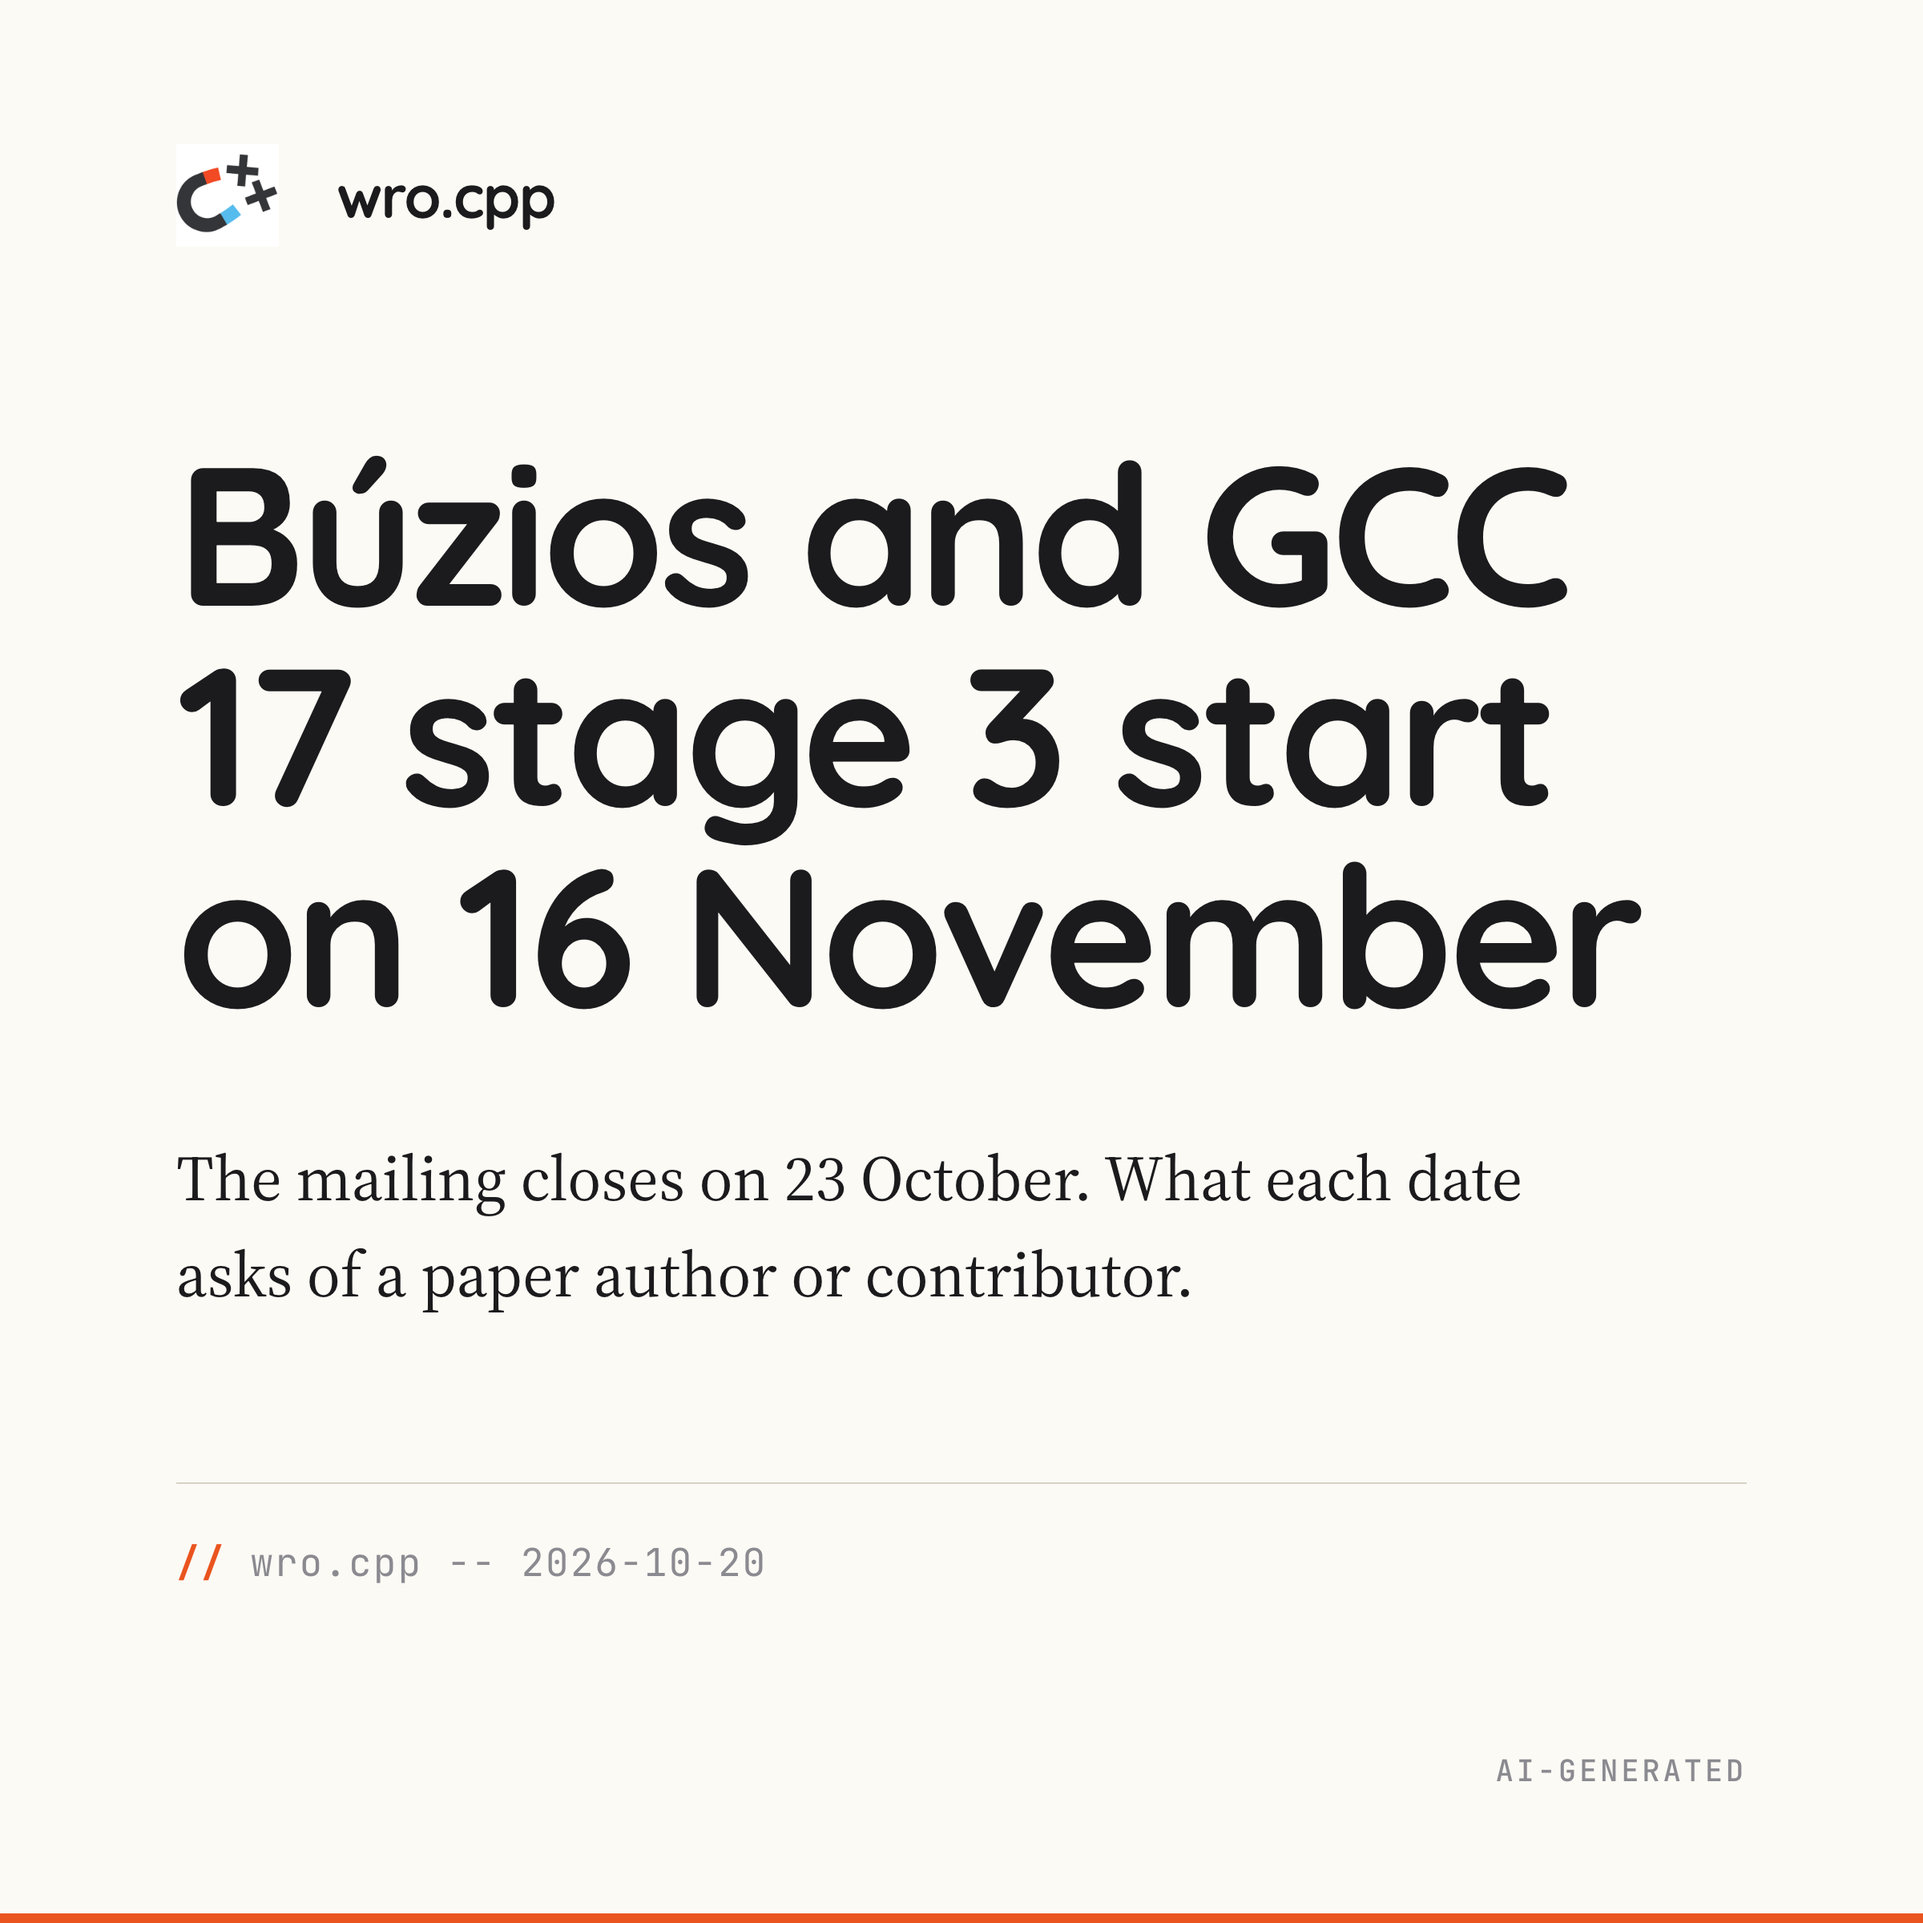
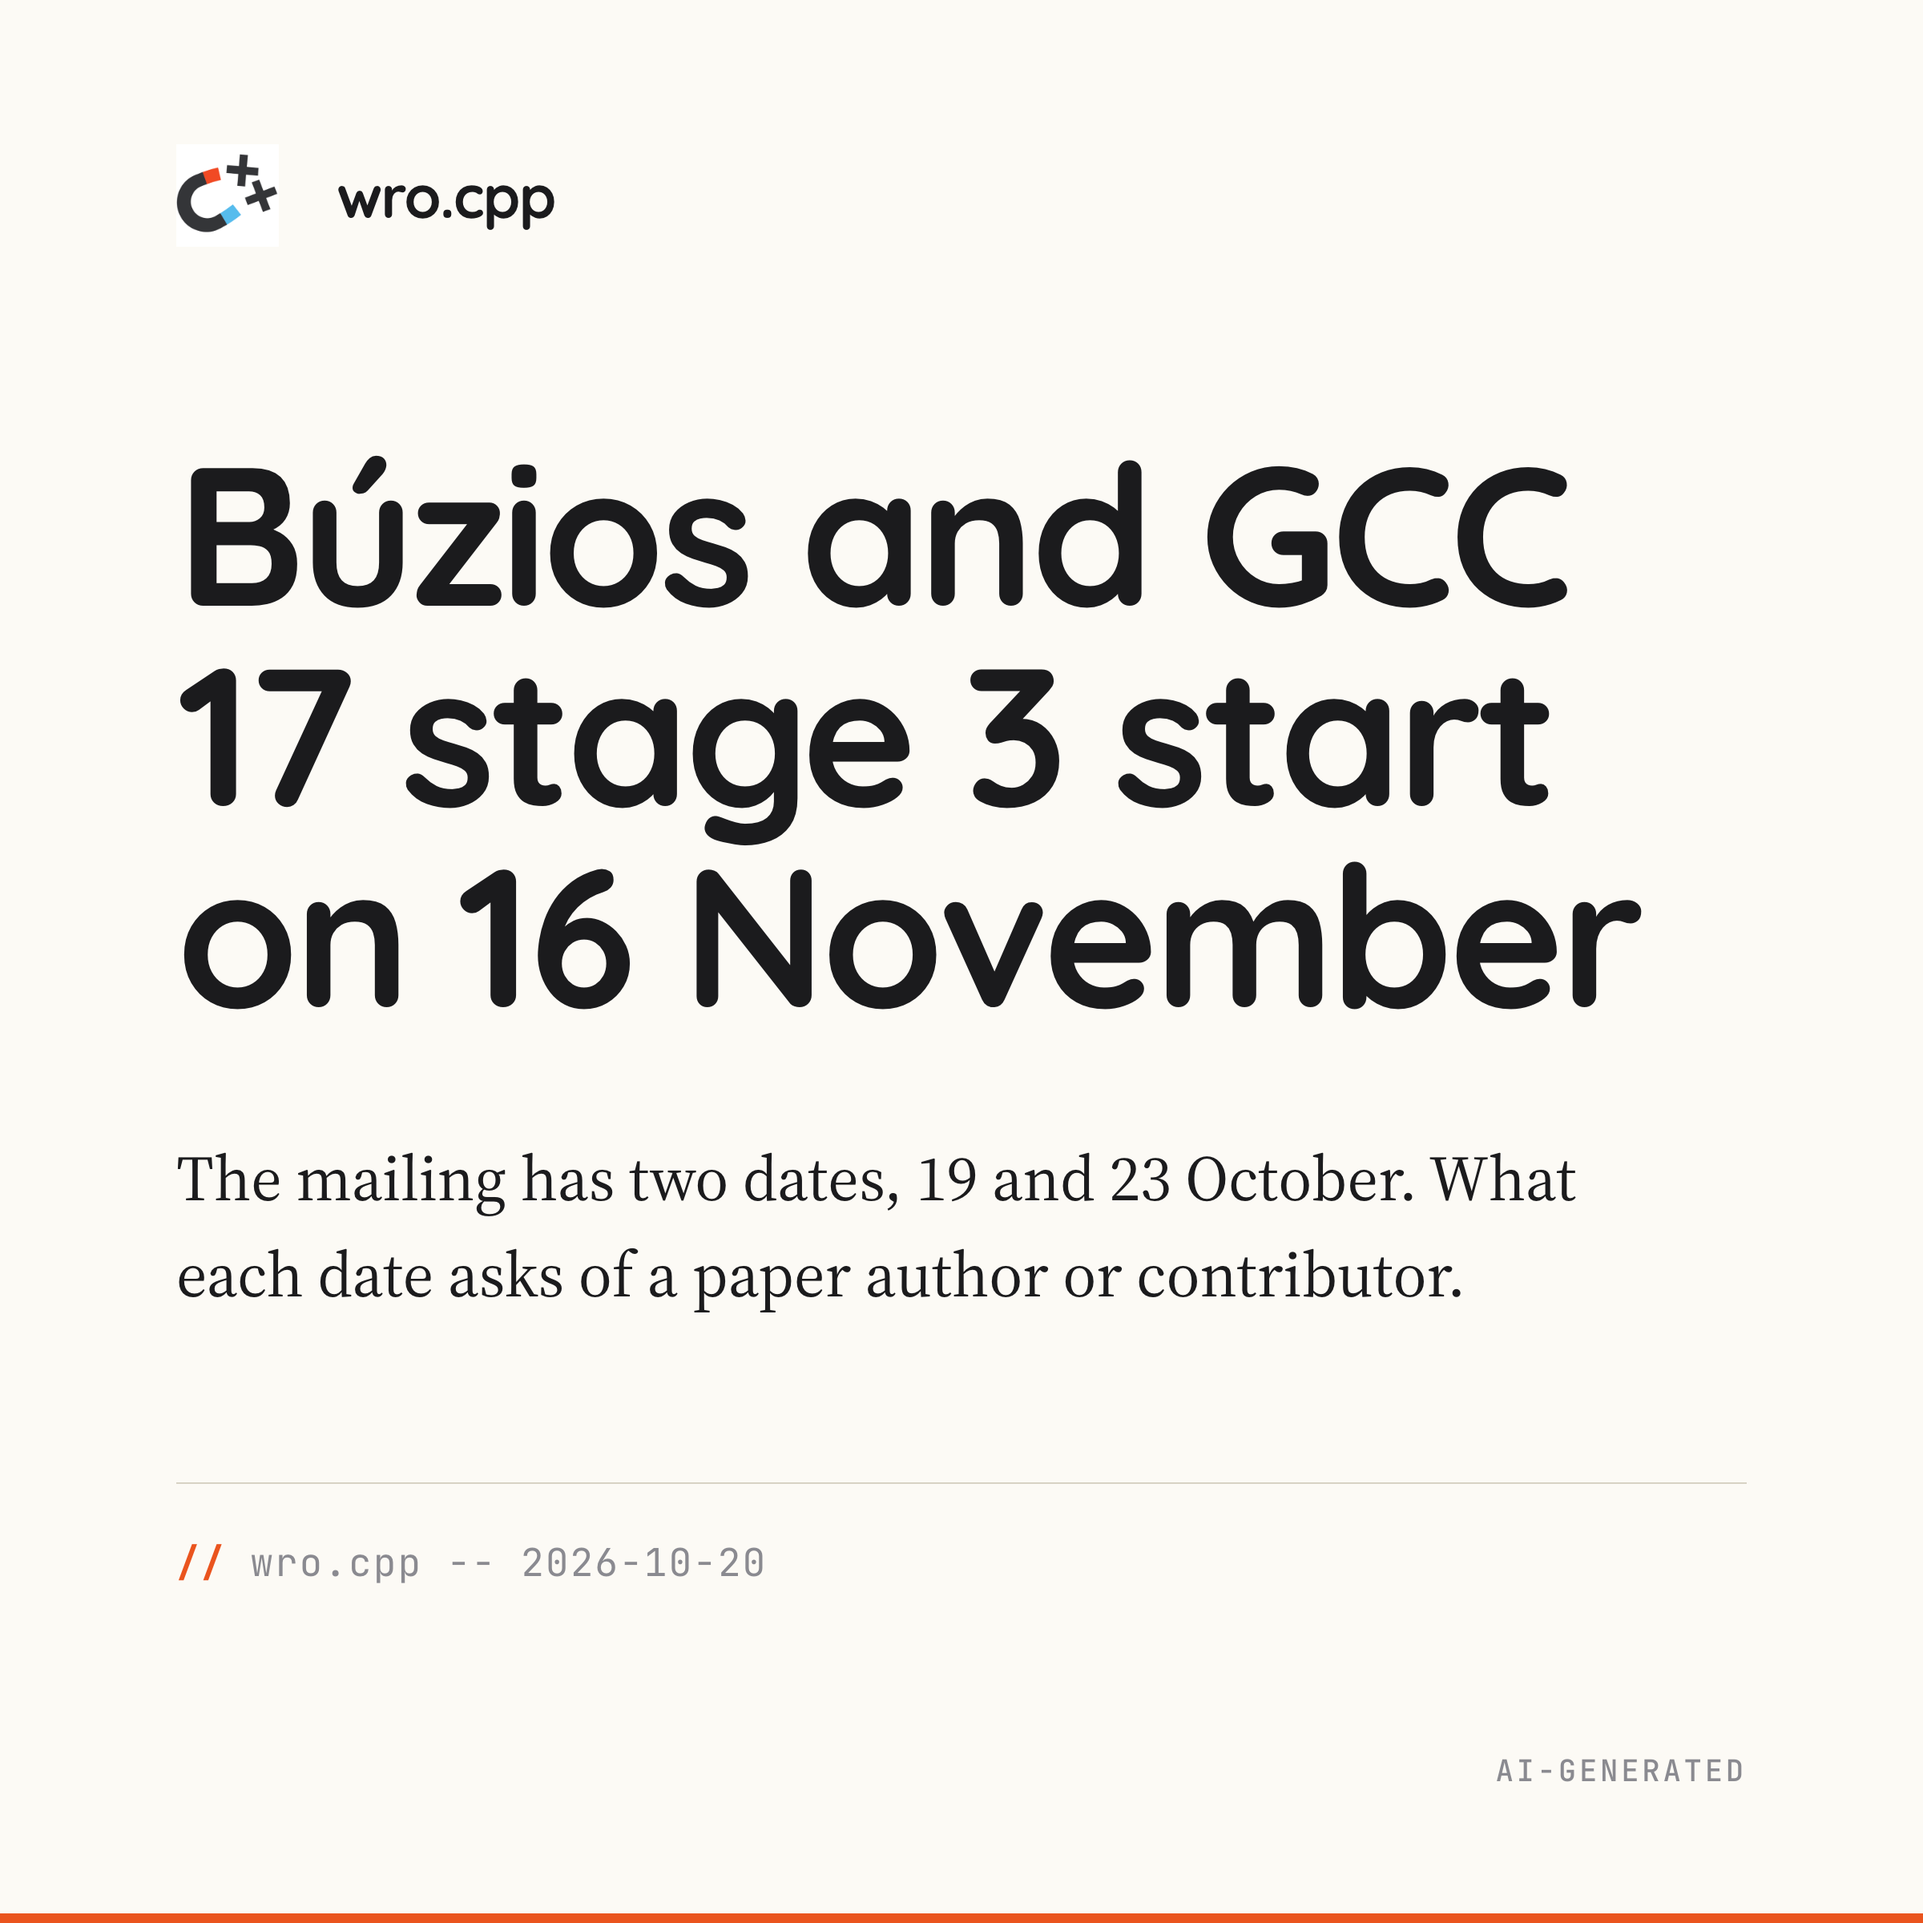
fix(social): update the Buzios captions for the two mailing dates
The corrected post gives two pre-Buzios mailing dates (agenda N5058:
Monday 19 October; WG21 news item: Friday 23 October 15:00 UTC) and
says the agenda exists. The LinkedIn and Facebook captions, the card
subtitle and the og image still said the mailing closes on 23 October
and that the agenda was not published. Only those claims changed.

Claude-Session: https://claude.ai/code/session_01BTCmkp4nQKAhWT8TGXF9KX

Changed region(s): [[0.0938, 0.6562, 0.75, 0.6875], [0.25, 0.5938, 0.8125, 0.625]]

diff --git a/social/facebook/dates-to-watch-buzios-gcc17/index.html b/social/facebook/dates-to-watch-buzios-gcc17/index.html
@@ -23,6 +23,6 @@
   </defs>
 </svg>
 
-<section class="card card-insight dark"><div class="grid-bg"></div><div class="glow"></div><div class="insight-content"><h1>Búzios and GCC 17 stage 3 start on 16 November</h1><p>The mailing closes on 23 October. What each date asks of a paper author or contributor.</p><div class="insight-citation">wro.cpp -- 2026-10-20</div></div><div class="logo-watermark top-left"><svg viewBox="0 0 512 512" aria-hidden="true"><use href="#scudo-logo"/></svg><span class="logo-wordmark">ScudoAI</span></div><div class="ai-badge">AI-generated</div></section>
+<section class="card card-insight dark"><div class="grid-bg"></div><div class="glow"></div><div class="insight-content"><h1>Búzios and GCC 17 stage 3 start on 16 November</h1><p>The mailing has two dates, 19 and 23 October. What each date asks of a paper author or contributor.</p><div class="insight-citation">wro.cpp -- 2026-10-20</div></div><div class="logo-watermark top-left"><svg viewBox="0 0 512 512" aria-hidden="true"><use href="#scudo-logo"/></svg><span class="logo-wordmark">ScudoAI</span></div><div class="ai-badge">AI-generated</div></section>
 </body>
 </html>

diff --git a/social/linkedin/dates-to-watch-buzios-gcc17/index.html b/social/linkedin/dates-to-watch-buzios-gcc17/index.html
@@ -23,6 +23,6 @@
   </defs>
 </svg>
 
-<section class="card card-insight dark"><div class="grid-bg"></div><div class="glow"></div><div class="insight-content"><h1>Búzios and GCC 17 stage 3 start on 16 November</h1><p>The mailing closes on 23 October. What each date asks of a paper author or contributor.</p><div class="insight-citation">wro.cpp -- 2026-10-20</div></div><div class="logo-watermark top-left"><svg viewBox="0 0 512 512" aria-hidden="true"><use href="#scudo-logo"/></svg><span class="logo-wordmark">ScudoAI</span></div><div class="ai-badge">AI-generated</div></section>
+<section class="card card-insight dark"><div class="grid-bg"></div><div class="glow"></div><div class="insight-content"><h1>Búzios and GCC 17 stage 3 start on 16 November</h1><p>The mailing has two dates, 19 and 23 October. What each date asks of a paper author or contributor.</p><div class="insight-citation">wro.cpp -- 2026-10-20</div></div><div class="logo-watermark top-left"><svg viewBox="0 0 512 512" aria-hidden="true"><use href="#scudo-logo"/></svg><span class="logo-wordmark">ScudoAI</span></div><div class="ai-badge">AI-generated</div></section>
 </body>
 </html>

diff --git a/social/linkedin/dates-to-watch-buzios-gcc17/caption.md b/social/linkedin/dates-to-watch-buzios-gcc17/caption.md
@@ -1,11 +1,11 @@
-# Mailing deadline 23 October, Buzios 16 November, and GCC 17 stage 3 the same day
+# Two dates for the pre-Buzios mailing, Buzios 16 November, and GCC 17 stage 3 the same day
 
 ## Body
 Three dates fall within a month of each other, and two of them land on the same Monday. I read each one on its primary page on 6 October, so check them again if you are reading this later.
 
-23 October, 15:00 UTC: the deadline for the 2026-10 pre-Buzios WG21 mailing, from a news item dated 22 September on the WG21 home page. If you are writing a paper for the November meeting, this is the cut-off for the mailing the committee reads beforehand. The page does not say what a late paper loses, and I did not read the submission rules.
+The pre-Buzios WG21 mailing has two dates on two pages. The agenda, N5058, dated 16 September, lists Monday 19 October. A news item dated 22 September on the WG21 home page gives Friday 23 October, 15:00 UTC. Neither page mentions the other. If you are writing a paper for the November meeting, aim for the earlier date. The pages do not say what a late paper loses, and I did not read the submission rules.
 
-16 to 21 November: the Buzios meeting, from the isocpp.org meetings list. That page does not say C++29. Herb Sutter's Brno report calls Brno the first C++29 meeting and Buzios the next full one, so calling Buzios the second C++29 meeting is my reading of the two pages. The Buzios agenda was not published on any page I found.
+16 to 21 November: the Buzios meeting, from the isocpp.org meetings list. That page does not say C++29. Herb Sutter's Brno report calls Brno the first C++29 meeting and Buzios the next full one, so calling Buzios the second C++29 meeting is my reading of the two pages. The agenda exists and is marked a draft.
 
 16 November: GCC 17 stage 3 begins, from gcc.gnu.org/develop.html. New functionality may not be introduced in stage 3, and stage 4 starts on 2027-01-18. My reading is that a feature voted into C++29 in Buzios could not land in GCC 17 after the vote, because the vote and stage 3 start together. I did not check which C++29 papers GCC already implements.
 
@@ -17,7 +17,7 @@ https://wrocpp.github.io/posts/dates-to-watch-buzios-gcc17/
 #cpp #cplusplus #wg21 #cpp29 #gcc #wrocpp
 
 ## Alt-text
-Dark wro.cpp card with the magnet logo. Headline reads "Buzios and GCC 17 stage 3 start on 16 November" with a subtitle saying the mailing closes on 23 October and what each date asks of a paper author or contributor. Citation footer: wro.cpp, 2026-10-20.
+Dark wro.cpp card with the magnet logo. Headline reads "Buzios and GCC 17 stage 3 start on 16 November" with a subtitle giving the two mailing dates, 19 and 23 October, and what each date asks of a paper author or contributor. Citation footer: wro.cpp, 2026-10-20.
 
 ## Suggested post time
 Tuesday 2026-10-20, 18:00 CEST (16:00 UTC)

diff --git a/social/facebook/dates-to-watch-buzios-gcc17/caption.md b/social/facebook/dates-to-watch-buzios-gcc17/caption.md
@@ -1,9 +1,9 @@
-# Mailing deadline 23 October, Buzios 16 November, and GCC 17 stage 3 the same day
+# Two dates for the pre-Buzios mailing, Buzios 16 November, and GCC 17 stage 3 the same day
 
 ## Body
 Three C++ dates within a month, two of them on the same Monday. I read each on its primary page on 6 October.
 
-The WG21 mailing before the Buzios meeting closes on 23 October at 15:00 UTC. The meeting itself runs 16 to 21 November. GCC 17 enters stage 3 on 16 November, and stage 3 does not accept new functionality.
+The pre-Buzios WG21 mailing has two dates: Monday 19 October on the N5058 agenda, and Friday 23 October at 15:00 UTC in a WG21 news item. Aim for the earlier one. The meeting itself runs 16 to 21 November. GCC 17 enters stage 3 on 16 November, and stage 3 does not accept new functionality.
 
 My reading, not something a page states: Buzios is the second C++29 meeting, and a feature voted in there could not reach GCC 17 after the vote.
 
@@ -15,7 +15,7 @@ https://wrocpp.github.io/posts/dates-to-watch-buzios-gcc17/
 #cpp #cplusplus #wg21 #cpp29 #gcc #wrocpp
 
 ## Alt-text
-Dark wro.cpp card with the magnet logo. Headline reads "Buzios and GCC 17 stage 3 start on 16 November" with a subtitle saying the mailing closes on 23 October and what each date asks of a paper author or contributor. Citation footer: wro.cpp, 2026-10-20.
+Dark wro.cpp card with the magnet logo. Headline reads "Buzios and GCC 17 stage 3 start on 16 November" with a subtitle giving the two mailing dates, 19 and 23 October, and what each date asks of a paper author or contributor. Citation footer: wro.cpp, 2026-10-20.
 
 ## Suggested post time
 Tuesday 2026-10-20, 18:00 CEST (16:00 UTC)

diff --git a/social/facebook/dates-to-watch-buzios-gcc17/content.md b/social/facebook/dates-to-watch-buzios-gcc17/content.md
@@ -6,7 +6,7 @@ template: social/linkedin-post
 
 :::insight{citation="wro.cpp -- 2026-10-20"}
 # Búzios and GCC 17 stage 3 start on 16 November
-The mailing closes on 23 October. What each date asks of a paper author or contributor.
+The mailing has two dates, 19 and 23 October. What each date asks of a paper author or contributor.
 :::
 
 ::::

diff --git a/social/linkedin/dates-to-watch-buzios-gcc17/content.md b/social/linkedin/dates-to-watch-buzios-gcc17/content.md
@@ -6,7 +6,7 @@ template: social/linkedin-post
 
 :::insight{citation="wro.cpp -- 2026-10-20"}
 # Búzios and GCC 17 stage 3 start on 16 November
-The mailing closes on 23 October. What each date asks of a paper author or contributor.
+The mailing has two dates, 19 and 23 October. What each date asks of a paper author or contributor.
 :::
 
 ::::
